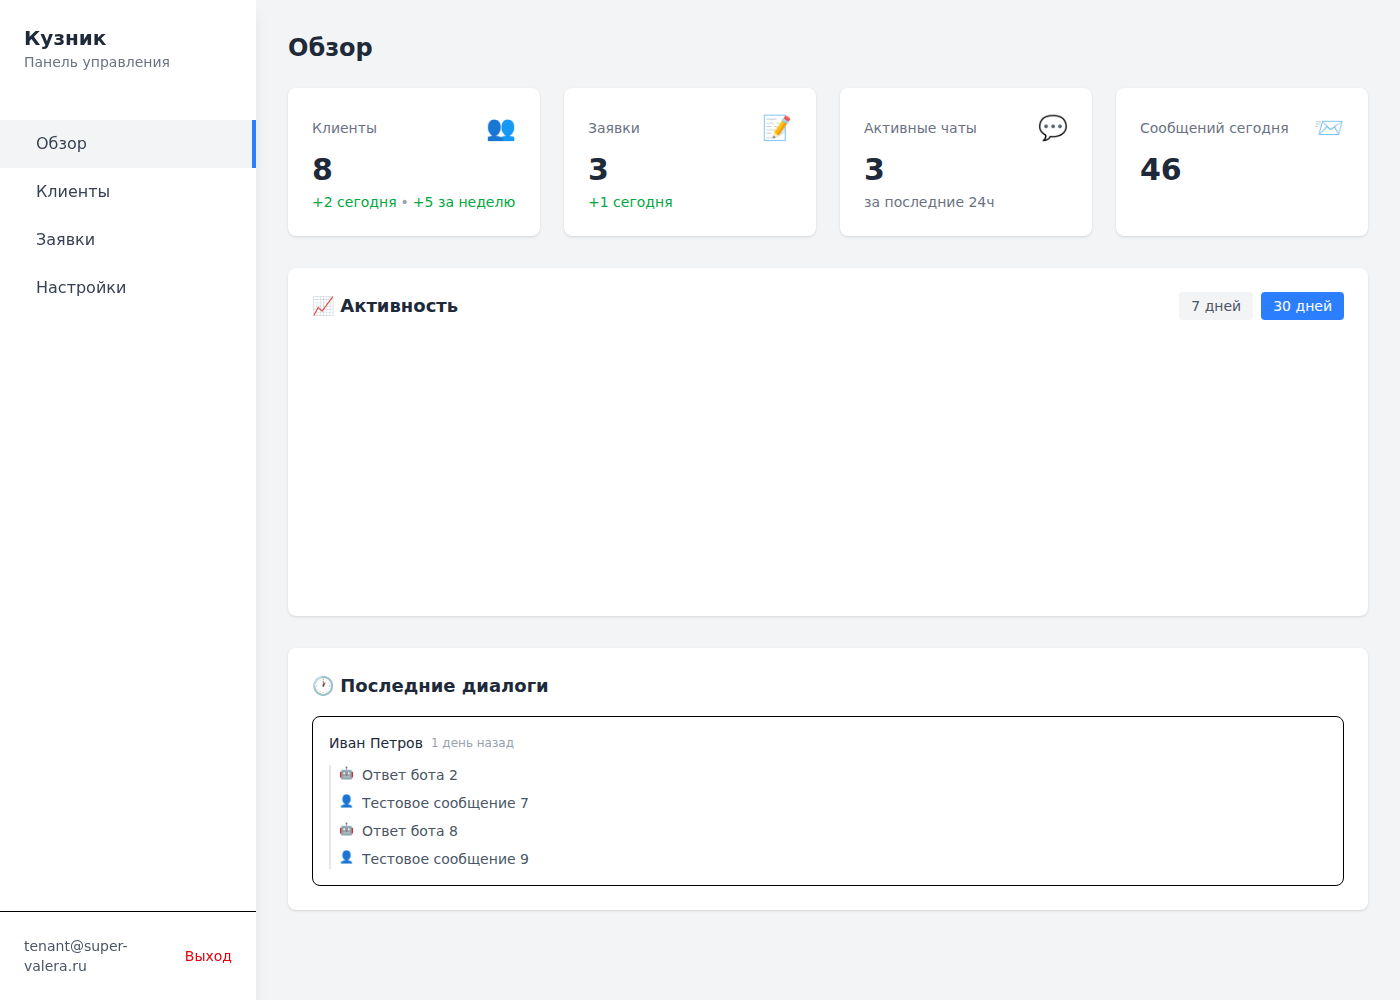
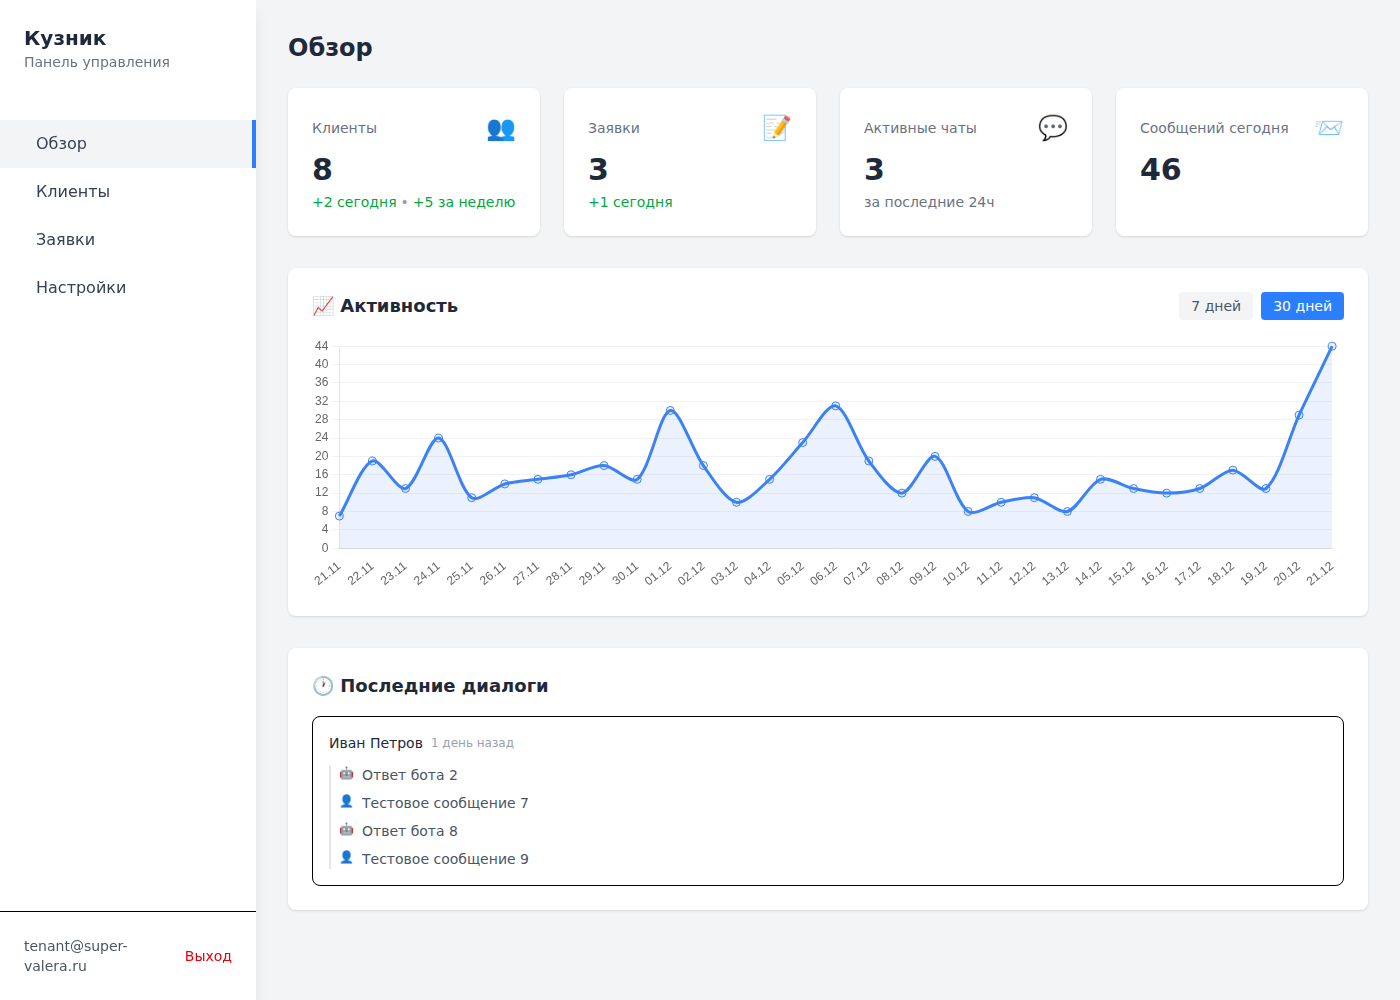
Fix Chart.js import and update dashboard screenshots
- Use chart.js/auto from CDN (jsdelivr) instead of JSPM bundle
- JSPM bundle had code-splitting that caused 404 errors for dependencies
- Update screenshots with working chart displaying activity data

🤖 Generated with [Claude Code](https://claude.com/claude-code)

diff --git a/app/javascript/controllers/chart_controller.js b/app/javascript/controllers/chart_controller.js
@@ -1,8 +1,5 @@
 import { Controller } from "@hotwired/stimulus"
-import { Chart, registerables } from "chart.js"
-
-// Регистрируем все компоненты Chart.js (эквивалент chart.js/auto)
-Chart.register(...registerables)
+import Chart from "chart.js/auto"
 
 // Контроллер для отображения графика активности на дашборде
 // Использует Chart.js для рендеринга line chart

diff --git a/config/importmap.rb b/config/importmap.rb
@@ -7,5 +7,5 @@ pin '@hotwired/turbo-rails', to: 'turbo.min.js'
 pin '@hotwired/stimulus', to: 'stimulus.min.js'
 pin '@hotwired/stimulus-loading', to: 'stimulus-loading.js'
 pin_all_from 'app/javascript/controllers', under: 'controllers'
-pin "chart.js" # @4.5.1
-pin "@kurkle/color", to: "@kurkle--color.js" # @0.3.4
+# Chart.js - используем ESM bundle с CDN (self-contained)
+pin "chart.js/auto", to: "https://cdn.jsdelivr.net/npm/chart.js@4.4.7/auto/+esm"
